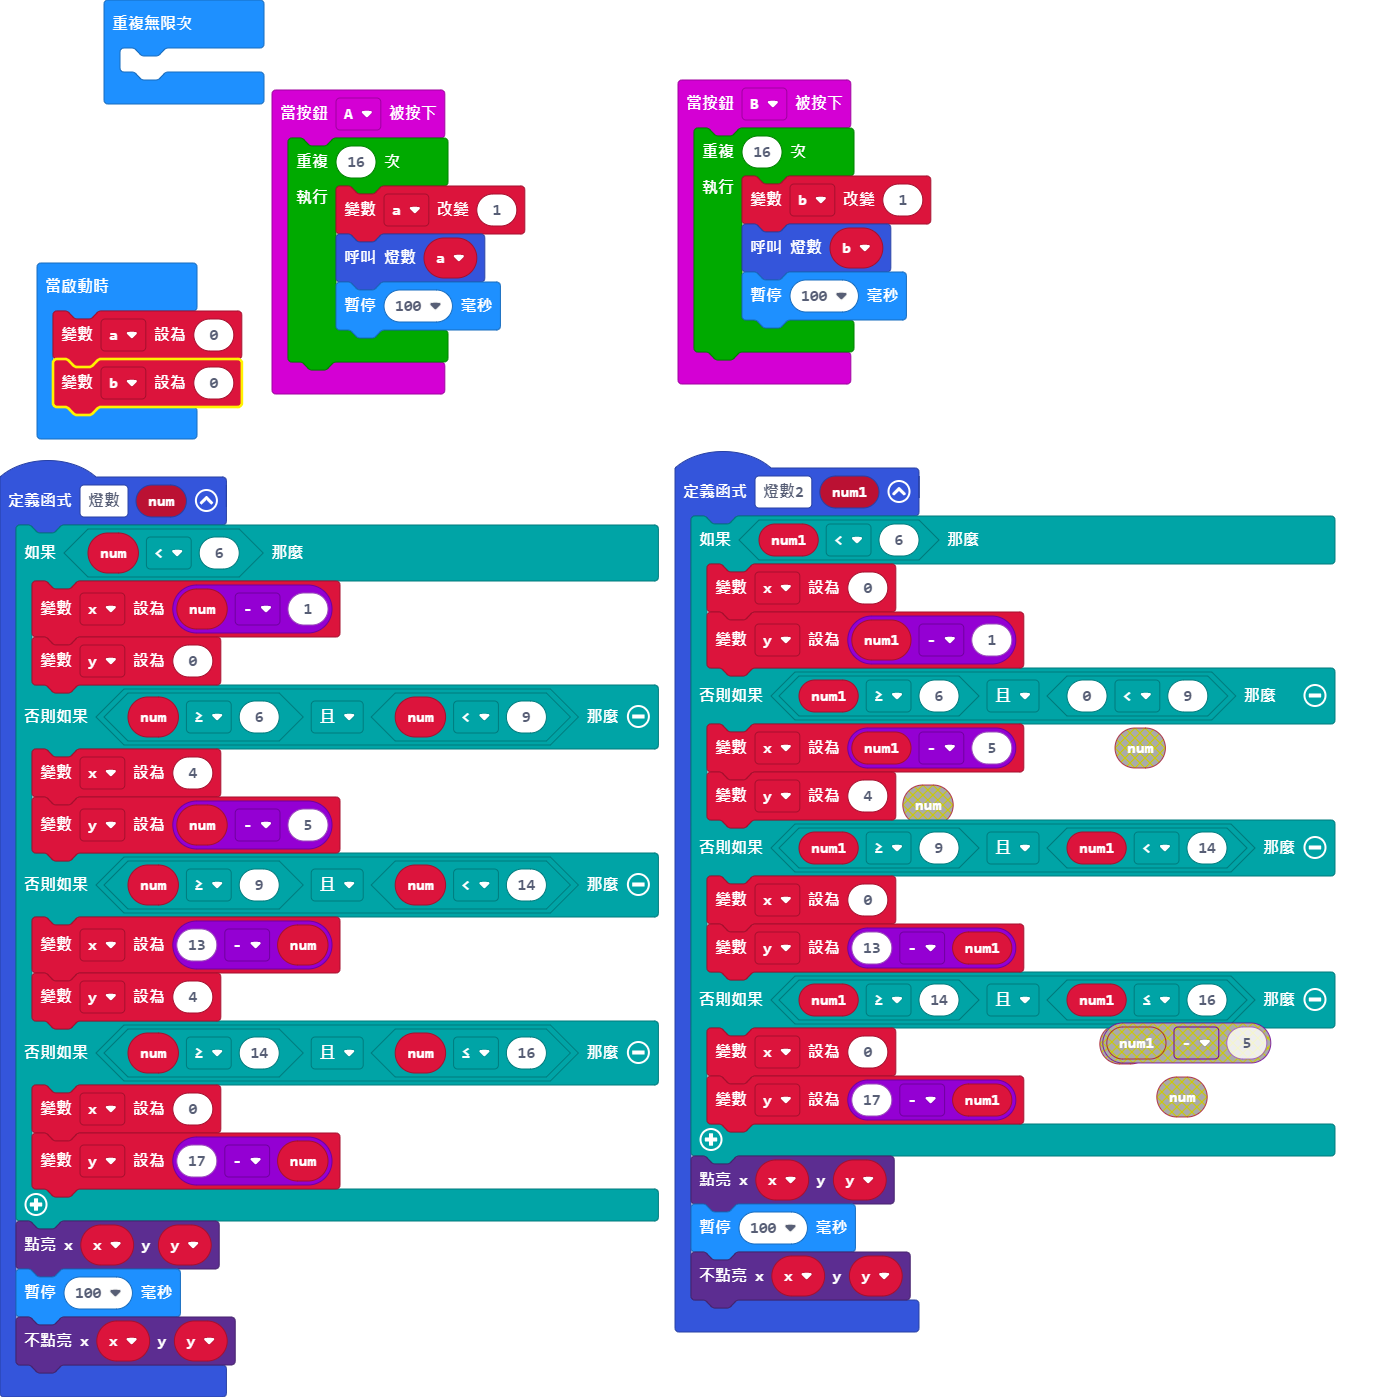
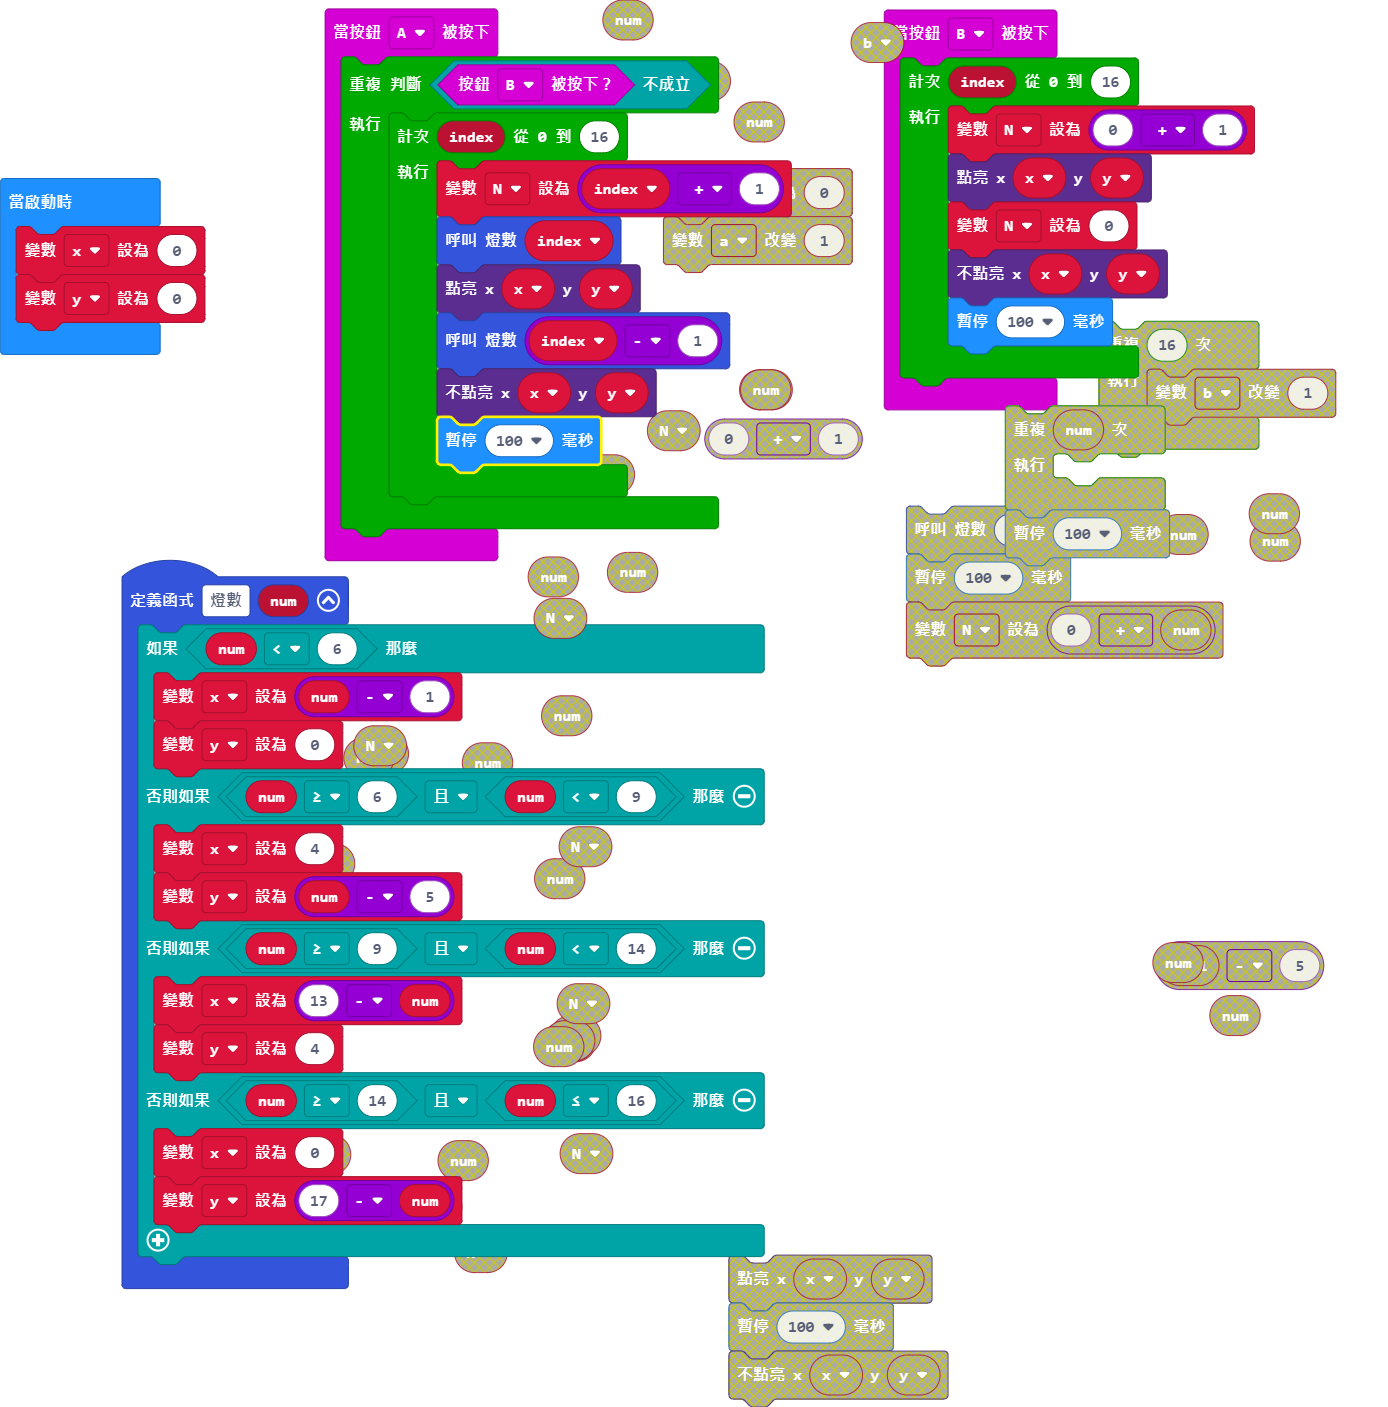
更新 pxt.json, main.blocks, main.ts

diff --git a/main.ts b/main.ts
@@ -12,48 +12,30 @@ function 燈數 (num: number) {
         x = 0
         y = 17 - num
     }
-    led.plot(x, y)
-    basic.pause(100)
-    led.unplot(x, y)
 }
 input.onButtonPressed(Button.A, function () {
-    for (let index = 0; index < 16; index++) {
-        a += 1
-        燈數(a)
-        basic.pause(100)
+    while (!(input.buttonIsPressed(Button.B))) {
+        for (let index = 0; index <= 16; index++) {
+            N = index + 1
+            燈數(index)
+            led.plot(x, y)
+            燈數(index - 1)
+            led.unplot(x, y)
+            basic.pause(100)
+        }
     }
 })
 input.onButtonPressed(Button.B, function () {
-    for (let index = 0; index < 16; index++) {
-        b += 1
-        燈數(b)
+    for (let index = 0; index <= 16; index++) {
+        N = 0 + 1
+        led.plot(x, y)
+        N = 0
+        led.unplot(x, y)
         basic.pause(100)
     }
 })
-function 燈數2 (num1: number) {
-    if (num1 < 6) {
-        x = 0
-        y = num1 - 1
-    } else if (num1 >= 6 && 0 < 9) {
-        x = num1 - 5
-        y = 4
-    } else if (num1 >= 9 && num1 < 14) {
-        x = 0
-        y = 13 - num1
-    } else if (num1 >= 14 && num1 <= 16) {
-        x = 0
-        y = 17 - num1
-    }
-    led.plot(x, y)
-    basic.pause(100)
-    led.unplot(x, y)
-}
+let N = 0
 let y = 0
 let x = 0
-let b = 0
-let a = 0
-a = 0
-b = 0
-basic.forever(function () {
-	
-})
+x = 0
+y = 0
